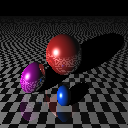
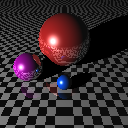
Fixed camera

diff --git a/raytracer_python/camera.py b/raytracer_python/camera.py
@@ -1,69 +1,44 @@
-class camera(object):
+import numpy as np
+from raymath import *
+
+class Camera:
     """description of class"""
+    def __init__(self, pos, dir, fov, width, height):
+        self.position = pos
+        self.view_direction = dir
+        self.fov = fov
+        self.image_width = width
+        self.image_height = height
 
+        # The vector to the right of the camera - assume the 'Up' Vector is vertically up
+        self.right = np.cross(self.view_direction, np.array([0.0, 1.0, 0.0]))
+        
+        # The 'up' vector pointing above the camera
+        # We recalculate it from the existing right and view direction.
+        # Imaging a line pointing up from your head, based on how far forward you are leaning
+        self.up = np.cross(self.right, self.view_direction);
 
-#pragma once
+        # Ensure our vectors are normalized
+        self.up = normalize(self.up);
+        self.right = normalize(self.right);
+        self.view_direction = normalize(self.view_direction);
 
-// A simple camera
-struct Camera
-{
-    vec3 position;          // Position of the camera in world space
-    vec3 viewDirection;     // The direction the camera is looking in
-    vec3 right;             // The vector to the right
-    vec3 up;                // The vector up
+        # Aspect ratio if the window is not square
+        self.aspect_ratio = self.image_width / self.image_height;
 
-    float aspectRatio;      // Ratio of x to y of the viewport
+        # The half-width of the viewport, in world space
+        self.half_angle = np.tan(np.radians(self.fov) / 2.0)
 
-    float halfAngle;        // Half angle of the view frustum
+    # Given a screen coordinate, return a ray leaving the camera and entering the world at that 'pixel'
+    def GetWorldRay(self, pixel_x, pixel_y):
+        # Could move some of this maths out of here for speed, but this isn't time critical
+        dir = np.array(self.view_direction);
+        x = ((pixel_x * 2.0) / self.image_width) - 1.0
+        y = ((pixel_y * 2.0) / self.image_height) - 1.0
 
-    float imageWidth;       // Width/height of the view plane
-    float imageHeight;
-
-    Camera(const vec3& cameraPosition, const vec3& dir, float fov, int width, unsigned int height)
-    {
-        position = cameraPosition;
-
-        viewDirection = dir;
-
-        imageWidth = (float)width;
-        imageHeight = (float)height;
-
-        // The vector to the right of the camera - assume the 'Up' Vector is vertically up
-        right = glm::cross(viewDirection, vec3(0.0f, 1.0, 0.0));
-
-        // The 'up' vector pointing above the camera
-        // We recalculate it from the existing right and view direction.
-        // Imaging a line pointing up from your head, based on how far forward you are leaning
-        up = glm::cross(right, viewDirection);
-
-        // Ensure our vectors are normalized
-        up = normalize(up);
-        right = normalize(right);
-        viewDirection = normalize(viewDirection);
-
-        // Aspect ratio if the window is not square
-        aspectRatio = float(width) / float(height);
-
-        // The half-width of the viewport, in world space
-        halfAngle = float(tan(glm::radians(fov) / 2.0));
-    }
-
-    // Given a screen coordinate, return a ray leaving the camera and entering the world at that 'pixel'
-    vec3 GetWorldRay(const vec2& imageSample)
-    {
-        // Could move some of this maths out of here for speed, but this isn't time critical
-        vec3 dir(viewDirection);
-        float x = ((imageSample.x * 2.0f) / imageWidth) - 1.0f;
-        float y = ((imageSample.y * 2.0f) / imageHeight) - 1.0f;
-
-        // Take the view direction and adjust it to point at the given sample, based on the 
-        // the frustum 
-        dir += (right * (halfAngle * aspectRatio * x));
-        dir -= (up * (halfAngle * y));
+        # Take the view direction and adjust it to point at the given sample, based on the 
+        # the frustum 
+        dir += (self.right * (self.half_angle * self.aspect_ratio * x));
+        dir -= (self.up * (self.half_angle * y));
         dir = normalize(dir);
-
-        return dir;
-    }
-};
-
-
+        return dir

diff --git a/raytracer_python/raytracer.py b/raytracer_python/raytracer.py
@@ -1,46 +1,10 @@
 import numpy as np
 import matplotlib.pyplot as plt
+import camera
+from raymath import *
 
-w = 128
-h = 128
-
-def normalize(x):
-    x /= np.linalg.norm(x)
-    return x
-
-def intersect_plane(O, D, P, N):
-    # Return the distance from O to the intersection of the ray (O, D) with the 
-    # plane (P, N), or +inf if there is no intersection.
-    # O and P are 3D points, D and N (normal) are normalized vectors.
-    denom = np.dot(D, N)
-    if np.abs(denom) < 1e-6:
-        return np.inf
-
-    d = np.dot(P - O, N) / denom
-
-    if d < 0:
-        return np.inf
-
-    return d
-
-def intersect_sphere(O, D, S, R):
-    # Return the distance from O to the intersection of the ray (O, D) with the 
-    # sphere (S, R), or +inf if there is no intersection.
-    # O and S are 3D points, D (direction) is a normalized vector, R is a scalar.
-    a = np.dot(D, D)
-    OS = O - S
-    b = 2 * np.dot(D, OS)
-    c = np.dot(OS, OS) - R * R
-    disc = b * b - 4 * a * c
-    if disc > 0:
-        distSqrt = np.sqrt(disc)
-        q = (-b - distSqrt) / 2.0 if b < 0 else (-b + distSqrt) / 2.0
-        t0 = q / a
-        t1 = c / q
-        t0, t1 = min(t0, t1), max(t0, t1)
-        if t1 >= 0:
-            return t1 if t0 < 0 else t0
-    return np.inf
+w = 256
+h = 256
 
 def intersect(O, D, obj):
     if obj['type'] == 'plane':
@@ -153,6 +117,8 @@ img = np.zeros((h, w, 3))
 # Screen coordinates: x0, y0, x1, y1.
 S = (-8.0, -8.0, 8.0, 8.0)
 
+cam = camera.Camera(O, Q, 60, w, h)
+
 # Loop through all pixels.
 for i, x in enumerate(np.linspace(S[0], S[2], w)):
     if i % 10 == 0:
@@ -160,10 +126,9 @@ for i, x in enumerate(np.linspace(S[0], S[2], w)):
 
     for j, y in enumerate(np.linspace(S[1], S[3], h)):
         col[:] = 0
-        Q[:2] = (x, y)
-        D = normalize(Q - O)
         depth = 0
-        rayO, rayD = O, D
+        rayO = O
+        rayD = cam.GetWorldRay(i, h - j -1) 
         reflection = 1.
 
         # Loop through initial and secondary rays.

diff --git a/raytracer_python/raymath.py b/raytracer_python/raymath.py
@@ -1,0 +1,39 @@
+import numpy as np
+
+def normalize(x):
+    x /= np.linalg.norm(x)
+    return x
+
+def intersect_plane(O, D, P, N):
+    # Return the distance from O to the intersection of the ray (O, D) with the 
+    # plane (P, N), or +inf if there is no intersection.
+    # O and P are 3D points, D and N (normal) are normalized vectors.
+    denom = np.dot(D, N)
+    if np.abs(denom) < 1e-6:
+        return np.inf
+
+    d = np.dot(P - O, N) / denom
+
+    if d < 0:
+        return np.inf
+
+    return d
+
+def intersect_sphere(O, D, S, R):
+    # Return the distance from O to the intersection of the ray (O, D) with the 
+    # sphere (S, R), or +inf if there is no intersection.
+    # O and S are 3D points, D (direction) is a normalized vector, R is a scalar.
+    a = np.dot(D, D)
+    OS = O - S
+    b = 2 * np.dot(D, OS)
+    c = np.dot(OS, OS) - R * R
+    disc = b * b - 4 * a * c
+    if disc > 0:
+        distSqrt = np.sqrt(disc)
+        q = (-b - distSqrt) / 2.0 if b < 0 else (-b + distSqrt) / 2.0
+        t0 = q / a
+        t1 = c / q
+        t0, t1 = min(t0, t1), max(t0, t1)
+        if t1 >= 0:
+            return t1 if t0 < 0 else t0
+    return np.inf
